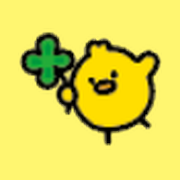
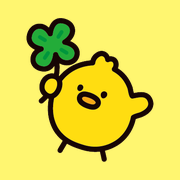
파비콘을 큰 병아리 그림으로 다시 만들기 (누끼, 더 선명하게)
Claude-Session: https://claude.ai/code/session_01FJjmZSGANyWEQW5CeZdeK7

diff --git a/index.html b/index.html
@@ -4,8 +4,8 @@
 <meta charset="utf-8">
 <meta name="viewport" content="width=device-width, initial-scale=1">
 <title>국내 매장 Prep</title>
-<link rel="icon" type="image/png" href="img/icon.png?v=3">
-<link rel="apple-touch-icon" href="img/icon-180.png?v=3">
+<link rel="icon" type="image/png" href="img/icon.png?v=4">
+<link rel="apple-touch-icon" href="img/icon-180.png?v=4">
 <link rel="preconnect" href="https://fonts.googleapis.com">
 <link rel="preconnect" href="https://fonts.gstatic.com" crossorigin>
 <link href="https://fonts.googleapis.com/css2?family=Noto+Sans+KR:wght@400;500;700&display=swap" rel="stylesheet">
